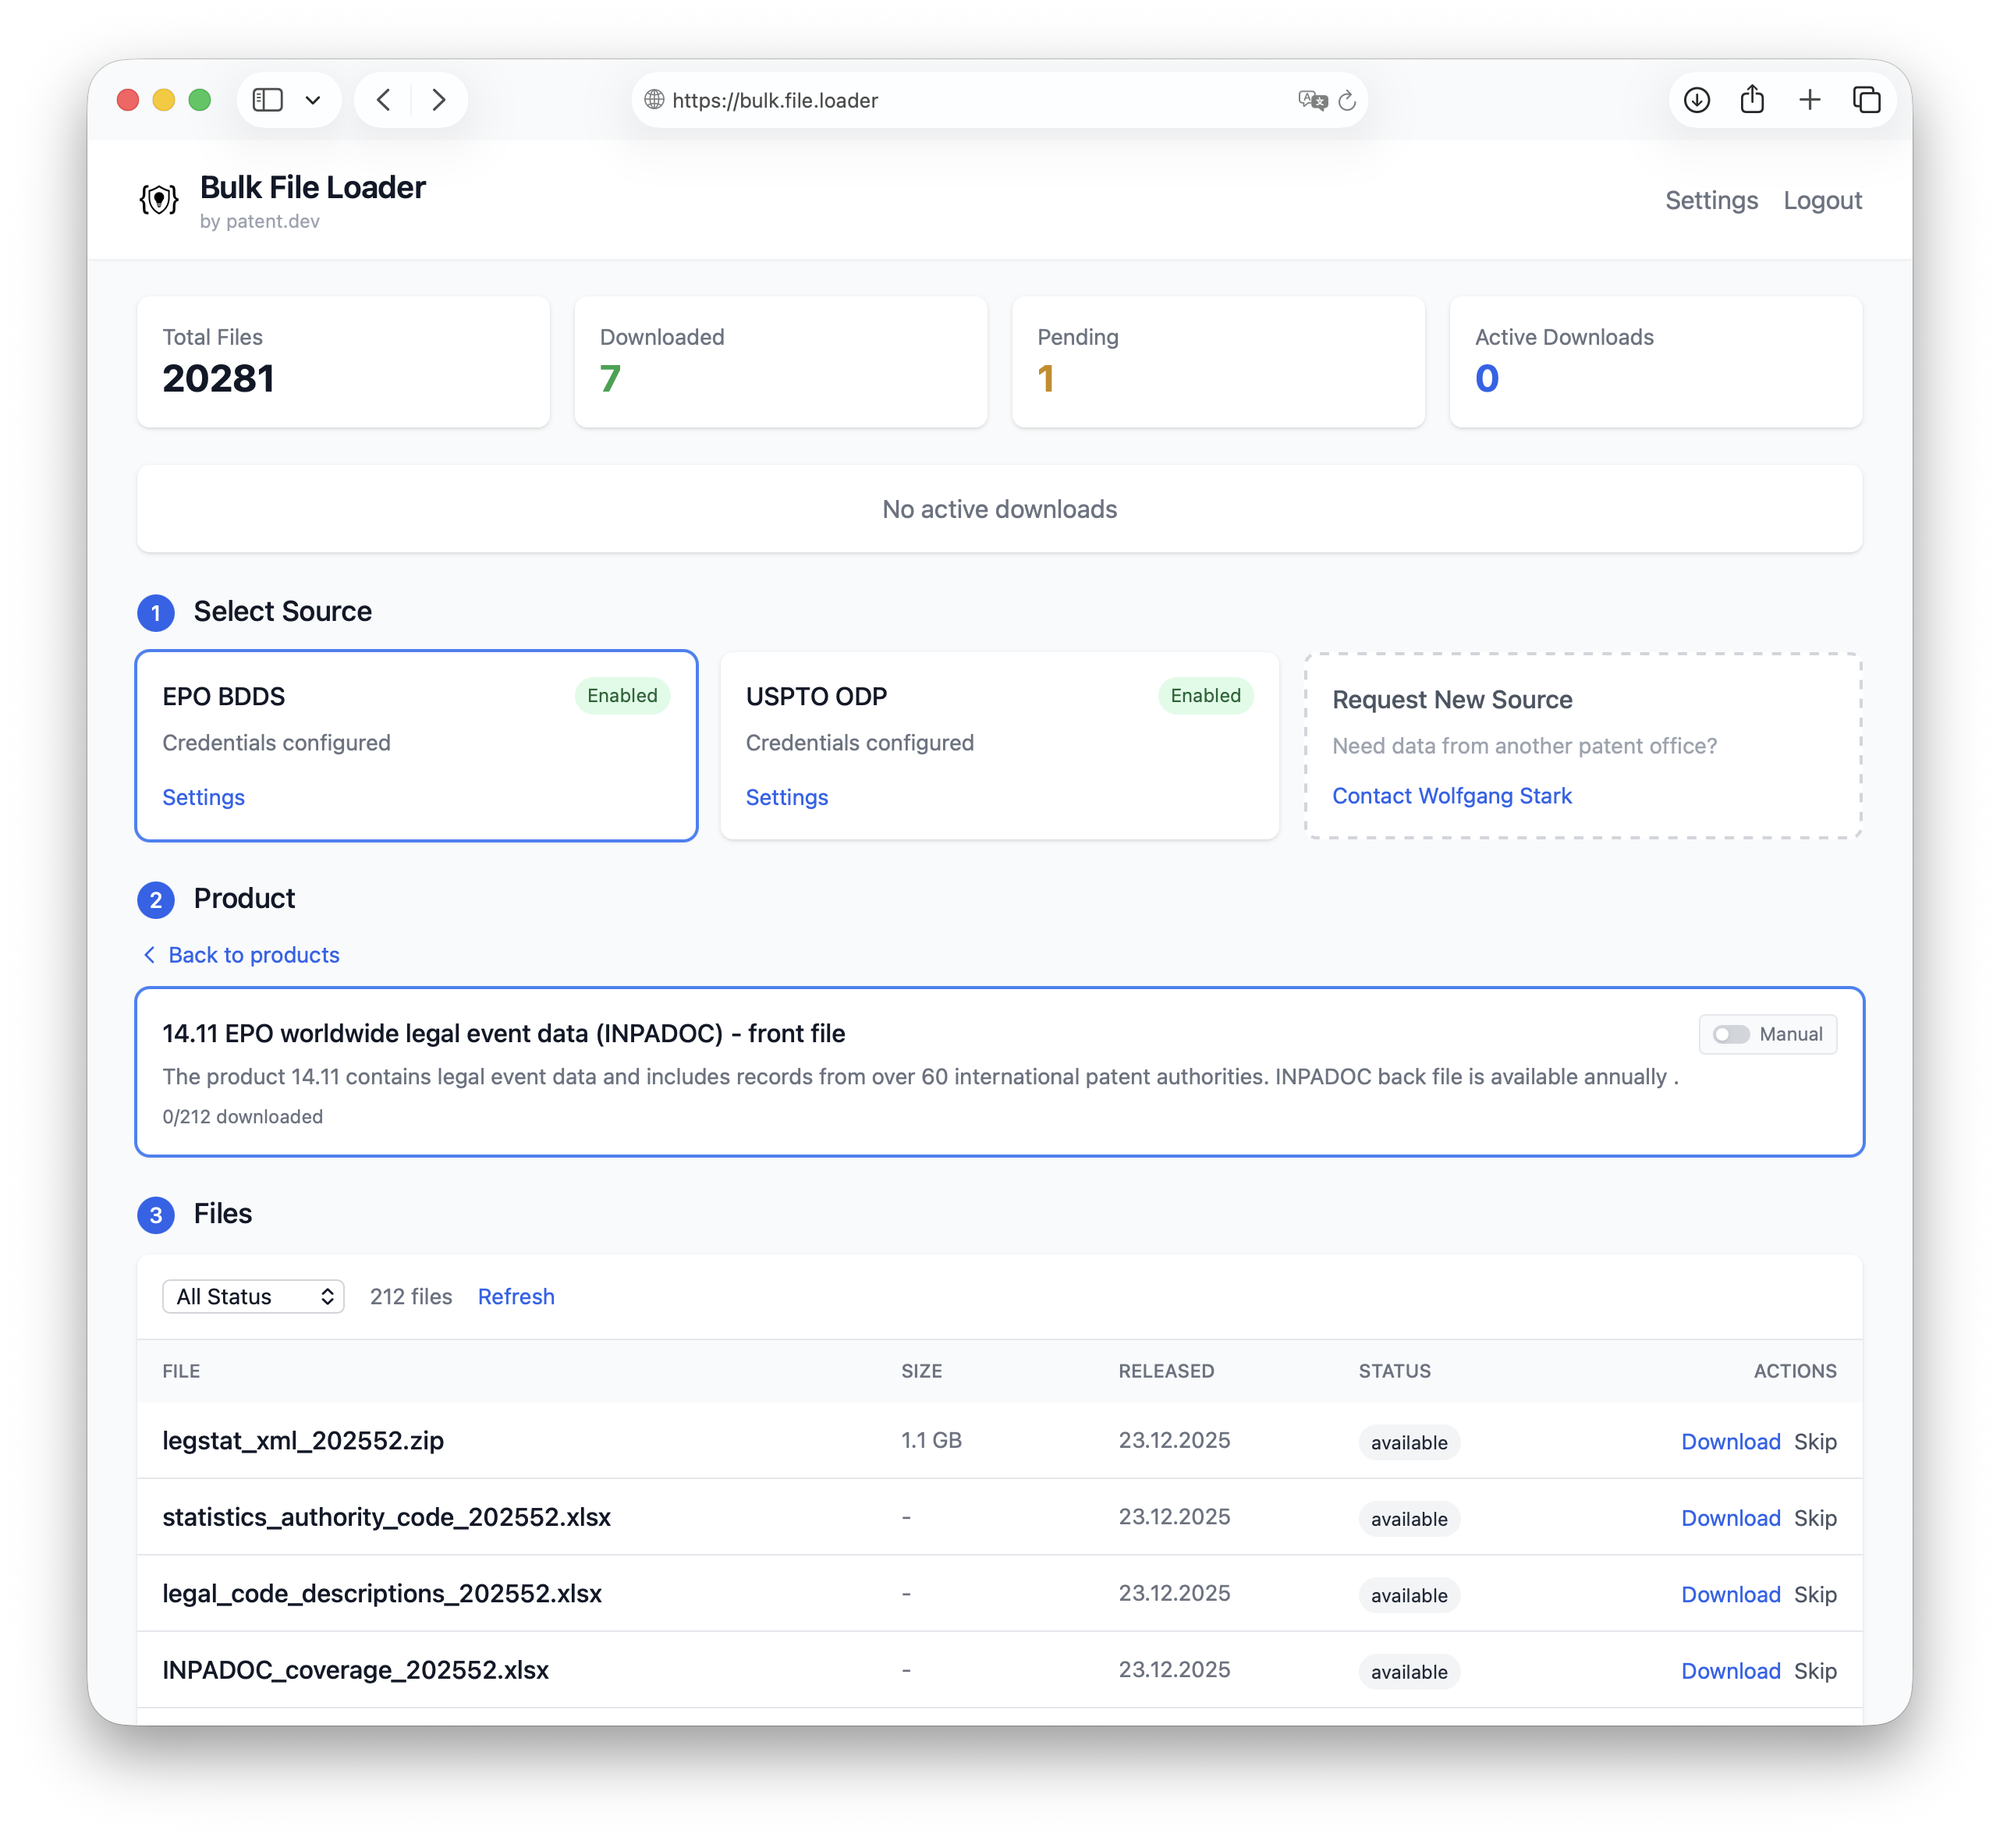
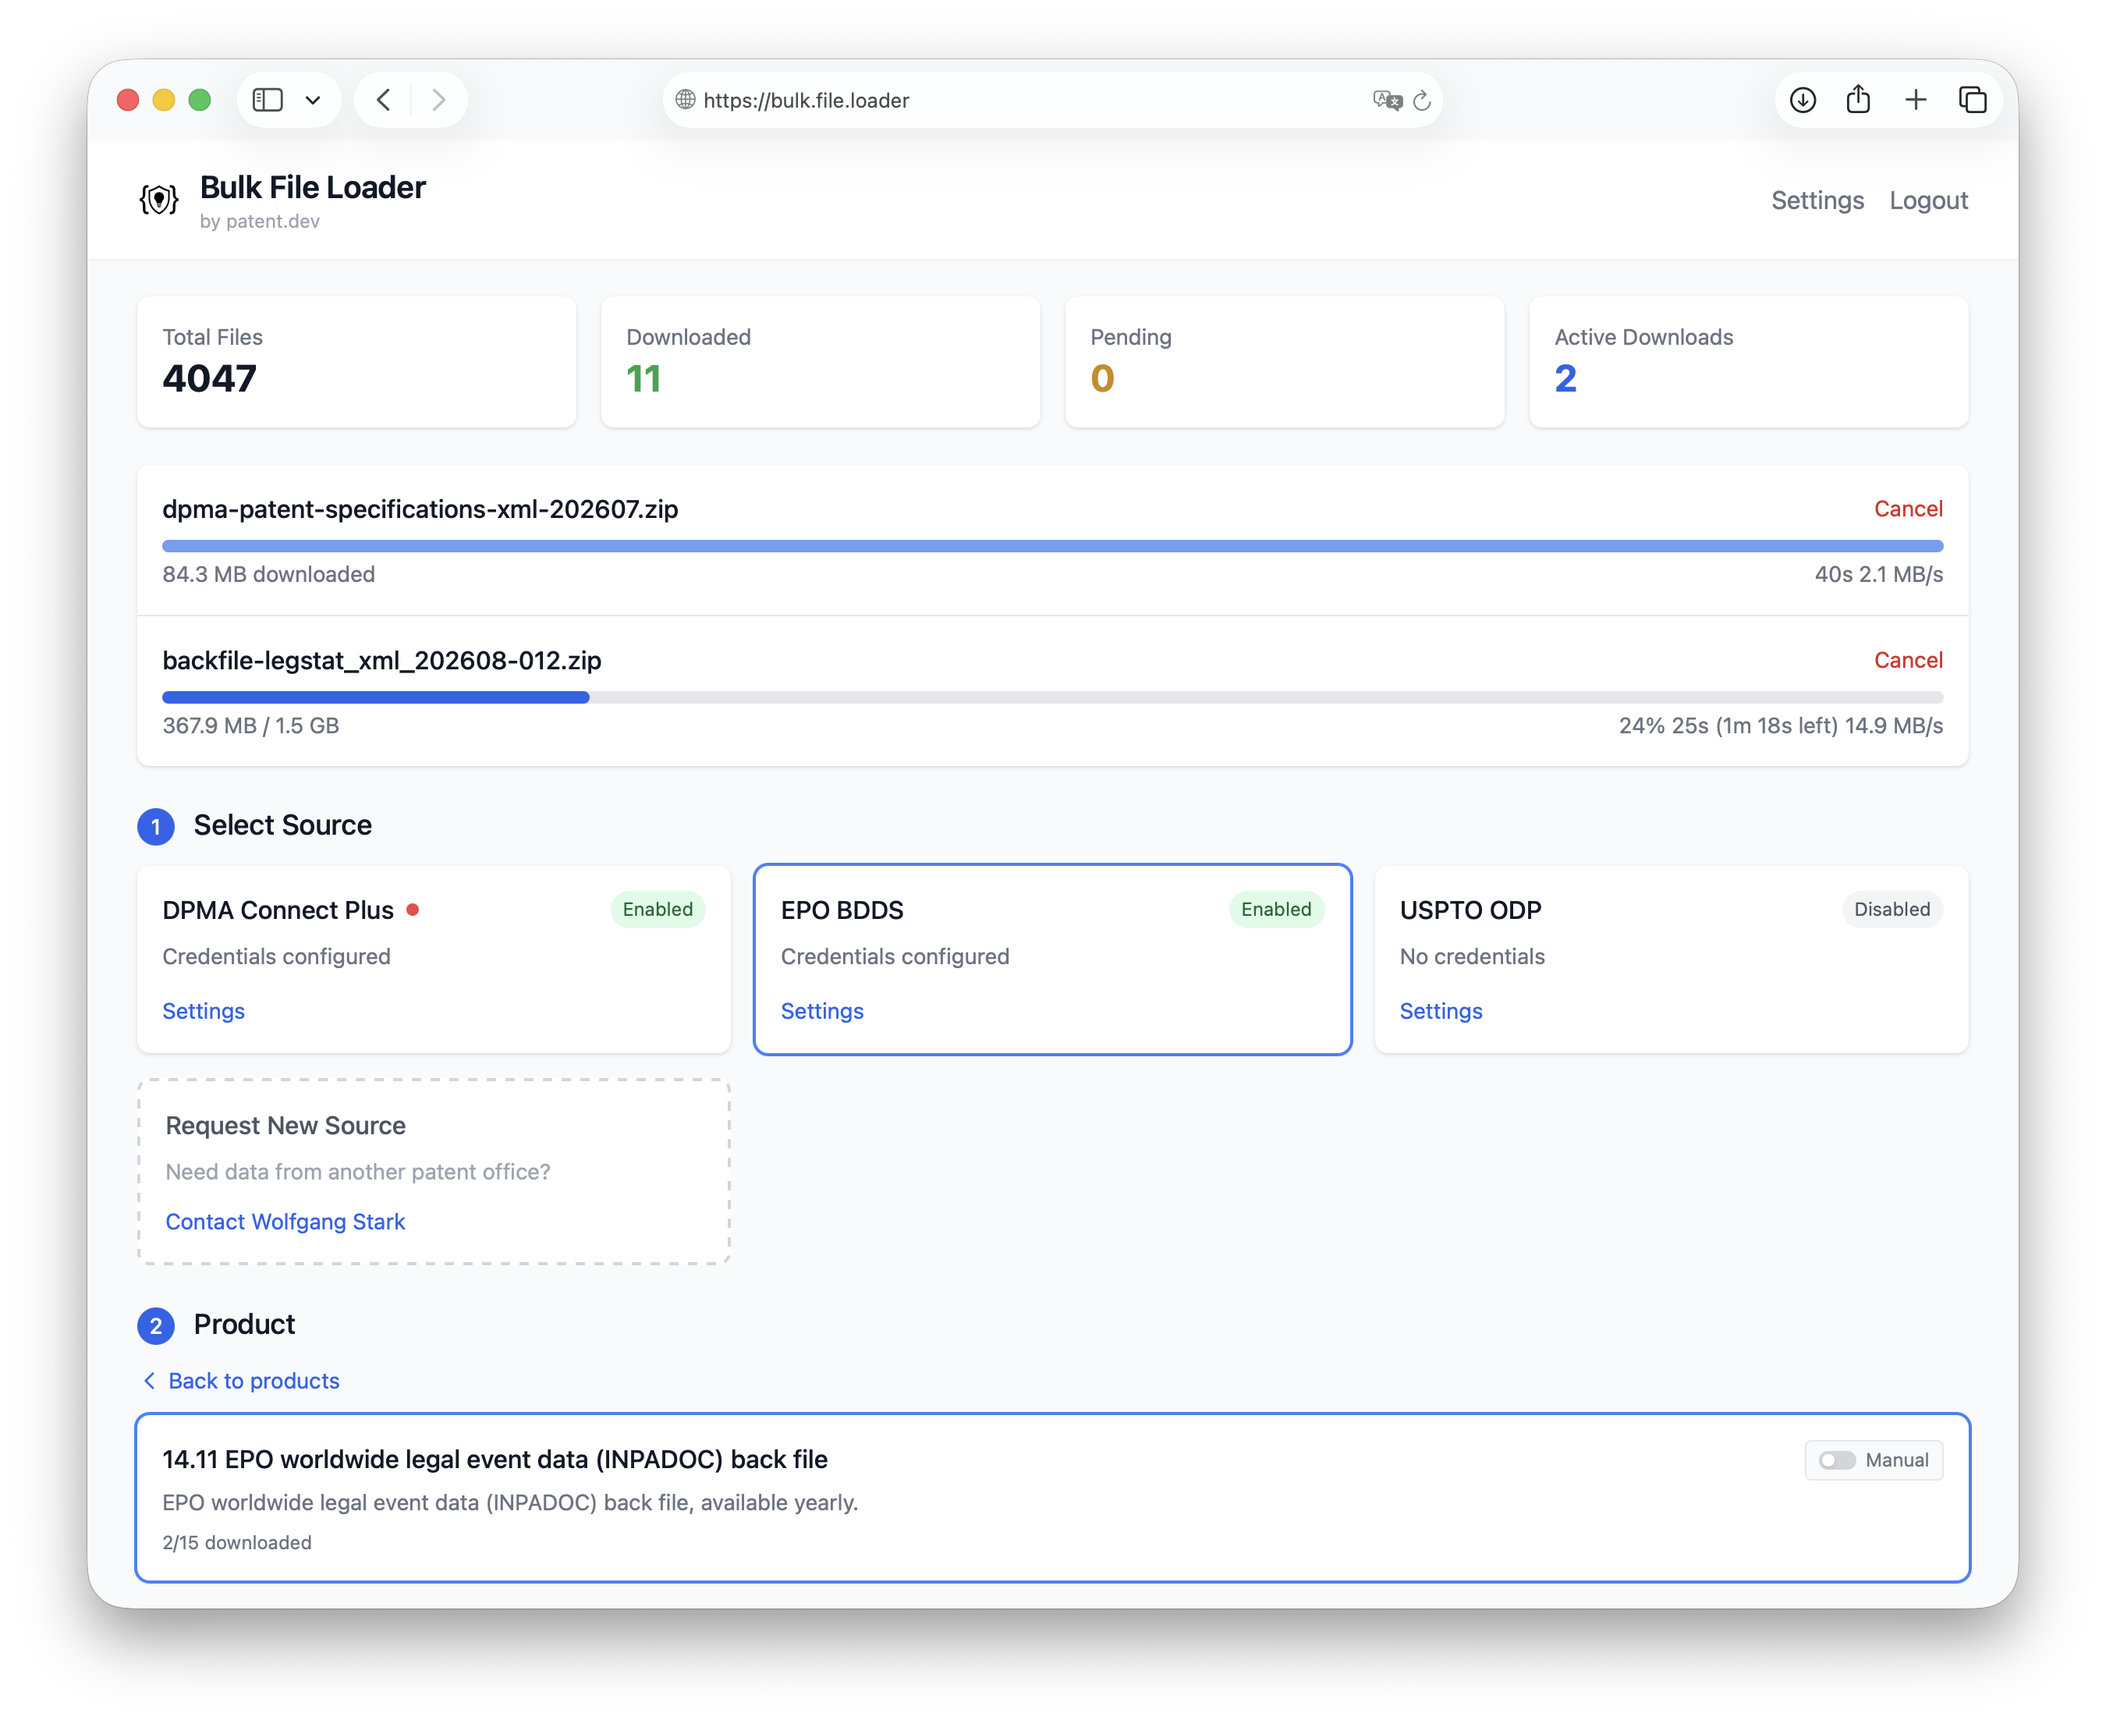
Fix progress bar display and update screenshot

diff --git a/web/ui/src/components/DownloadProgressBar.vue b/web/ui/src/components/DownloadProgressBar.vue
@@ -5,7 +5,6 @@ const props = defineProps<{
   bytesWritten: number
   totalBytes: number
   speed: number
-  startedAt?: string
   compact?: boolean
 }>()
 
@@ -31,13 +30,22 @@ const progress = computed(() => {
 })
 
 const elapsed = computed(() => {
-  if (!props.startedAt) return 0
-  return (Date.now() - new Date(props.startedAt).getTime()) / 1000
+  if (props.speed <= 0) return -1
+  return props.bytesWritten / props.speed
 })
 
 const eta = computed(() => {
   if (props.speed <= 0 || props.totalBytes <= 0) return -1
   return (props.totalBytes - props.bytesWritten) / props.speed
+})
+
+const rightLabel = computed(() => {
+  const parts: string[] = []
+  if (progress.value >= 0) parts.push(progress.value + '%')
+  if (elapsed.value > 0) parts.push(formatDuration(elapsed.value))
+  if (eta.value > 0) parts.push('(' + formatDuration(eta.value) + ' left)')
+  if (props.speed > 0) parts.push(formatBytes(props.speed) + '/s')
+  return parts.join(' ')
 })
 </script>
 
@@ -64,12 +72,7 @@ const eta = computed(() => {
       <span v-else>
         {{ formatBytes(bytesWritten) }} downloaded
       </span>
-      <span class="flex gap-2">
-        <template v-if="progress >= 0">{{ progress }}%</template>
-        <template v-if="elapsed > 0">{{ formatDuration(elapsed) }}</template>
-        <template v-if="eta > 0">({{ formatDuration(eta) }} left)</template>
-        <template v-if="speed > 0">{{ formatBytes(speed) }}/s</template>
-      </span>
+      <span>{{ rightLabel }}</span>
     </div>
   </div>
 </template>

diff --git a/web/ui/src/components/FileList.vue b/web/ui/src/components/FileList.vue
@@ -232,7 +232,7 @@ onUnmounted(() => {
             <th class="px-4 py-3 text-left text-xs font-medium text-gray-500 uppercase">File</th>
             <th class="px-4 py-3 text-left text-xs font-medium text-gray-500 uppercase">Size</th>
             <th class="px-4 py-3 text-left text-xs font-medium text-gray-500 uppercase">Released</th>
-            <th class="px-4 py-3 text-left text-xs font-medium text-gray-500 uppercase">Status</th>
+            <th class="px-4 py-3 text-left text-xs font-medium text-gray-500 uppercase w-72">Status</th>
             <th class="px-4 py-3 text-right text-xs font-medium text-gray-500 uppercase">Actions</th>
           </tr>
         </thead>
@@ -276,7 +276,6 @@ onUnmounted(() => {
                 :bytes-written="downloadProgressMap.get(file.id)!.bytesWritten"
                 :total-bytes="downloadProgressMap.get(file.id)!.totalBytes"
                 :speed="downloadProgressMap.get(file.id)!.speed"
-                :started-at="downloadProgressMap.get(file.id)!.startedAt"
                 :compact="true"
                 class="mt-1"
               />

diff --git a/web/ui/src/components/ActiveDownloads.vue b/web/ui/src/components/ActiveDownloads.vue
@@ -42,7 +42,6 @@ async function cancelDownload(fileId: string) {
           :bytes-written="download.bytesWritten"
           :total-bytes="download.totalBytes"
           :speed="download.speed"
-          :started-at="download.startedAt"
         />
       </div>
     </div>
